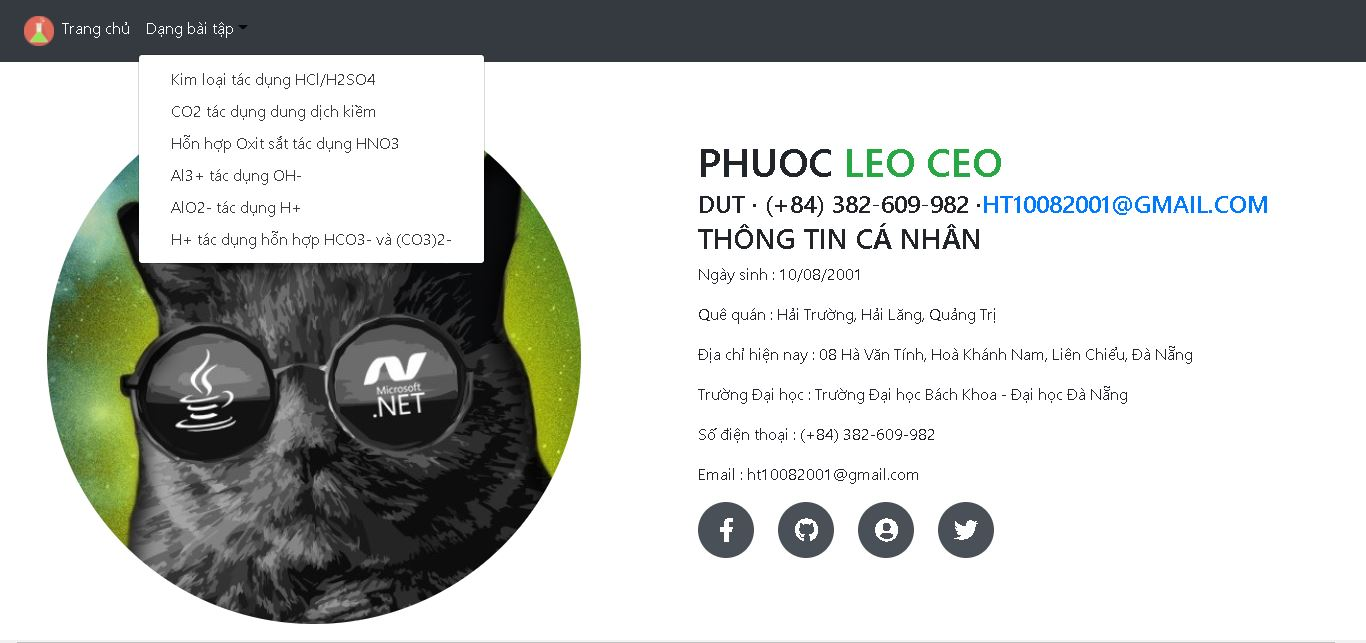
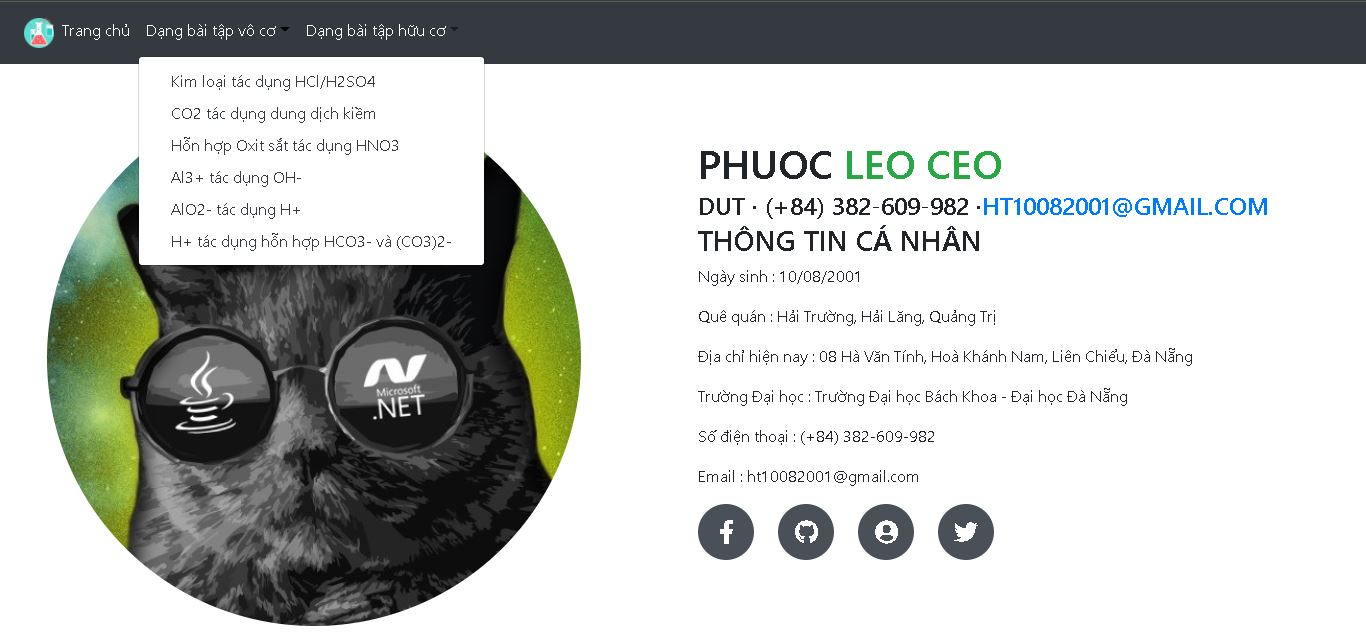
Refactor for new format

diff --git a/src/App.js b/src/App.js
@@ -2,12 +2,13 @@ import { BrowserRouter, Route, Switch } from 'react-router-dom';
 import { Container } from 'react-bootstrap';
 import Home from './components/Home';
 import Navigation from './components/Navigation';
-import MetalNonOxidizingAcids from './components/ExerciseFormat/MetalNonOxidizingAcids';
-import CO2WithOH from './components/ExerciseFormat/CO2WithOH';
-import IronOxideWithHNO3 from './components/ExerciseFormat/IronOxideWithHNO3';
-import Al3WithOH from './components/ExerciseFormat/Al3WithOH';
-import AlO2WithH from './components/ExerciseFormat/AlO2WithH';
-import HWithHCO3AndCO3 from './components/ExerciseFormat/HWithHCO3AndCO3';
+import MetalNonOxidizingAcids from './components/InorganicFormat/MetalNonOxidizingAcids';
+import CO2WithOH from './components/InorganicFormat/CO2WithOH';
+import IronOxideWithHNO3 from './components/InorganicFormat/IronOxideWithHNO3';
+import Al3WithOH from './components/InorganicFormat/Al3WithOH';
+import AlO2WithH from './components/InorganicFormat/AlO2WithH';
+import HWithHCO3AndCO3 from './components/InorganicFormat/HWithHCO3AndCO3';
+import GlucozoFermentation from './components/OrganicFormat/GlucozoFermentation';
 import './App.css';
 
 export default function App() {
@@ -24,6 +25,8 @@ export default function App() {
           <Route path='/format4' component={Al3WithOH} />
           <Route path='/format5' component={AlO2WithH} />
           <Route path='/format6' component={HWithHCO3AndCO3} />
+
+          <Route path='/format7' component={GlucozoFermentation} />
         </Switch>
       </Container>
     </BrowserRouter>

diff --git a/src/components/Navigation.jsx b/src/components/Navigation.jsx
@@ -20,7 +20,7 @@ export default function Navigation() {
 						Trang chủ
 					</Nav.Link>
 
-					<NavDropdown title={<span className="text-white">Dạng bài tập</span>}
+					<NavDropdown title={<span className="text-white">Dạng bài tập vô cơ</span>}
 						className="nav-down" id="basic-nav-dropdown">
 						<NavDropdown.Item>
 							<Nav.Link as={Link} to="/format1" className="d-inline p-2 text-dark">
@@ -57,6 +57,16 @@ export default function Navigation() {
 								H+ tác dụng hỗn hợp HCO3- và (CO3)2-
 							</Nav.Link>
 						</NavDropdown.Item>
+					</NavDropdown>
+
+					<NavDropdown title={<span className="text-white">Dạng bài tập hữu cơ</span>}
+						className="nav-down" id="basic-nav-dropdown">
+						<NavDropdown.Item>
+							<Nav.Link as={Link} to="/format7" className="d-inline p-2 text-dark">
+								Lên men glucozơ
+							</Nav.Link>
+						</NavDropdown.Item>
+
 					</NavDropdown>
 				</Nav>
 			</Navbar.Collapse>

diff --git a/src/components/OrganicFormat/GlucozoFermentation.jsx b/src/components/OrganicFormat/GlucozoFermentation.jsx
@@ -1,0 +1,9 @@
+import React from 'react'
+
+export default function GlucozoFermentation() {
+	return (
+		<div>
+			hihi
+		</div>
+	)
+}

diff --git a/README.md b/README.md
@@ -1,5 +1,7 @@
 # Simple App For Fun - Chemistry is so interesting
 
+## Redux is not necessary but I used it for practice
+
 ### Installed Package
 react-router-dom
 
@@ -25,5 +27,5 @@ redux react-redux
     npm start
    ```
 
-### Screen-shot
+### Screen-shot ( Responsive )
 <img src="https://raw.githubusercontent.com/phuocleoceo/Chemistry-Solve-React/master/Capture.JPG"  alt="HP">
